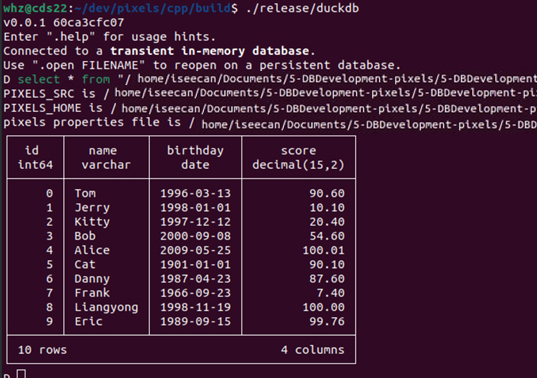
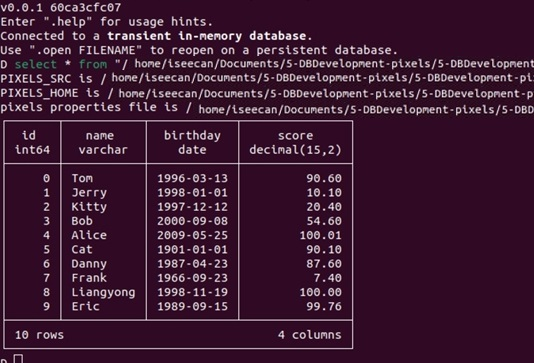
Update Report2

Changed region(s): [[0.0, 0.0, 1.0, 1.0]]

diff --git a/Report2.md b/Report2.md
@@ -189,7 +189,7 @@ void DateColumnWriter::writeCurPartTime(std::shared_ptr<ColumnVector> columnVect
 </div>
 
 <div style="text-align: center;">
-    <img src="./ReportImg/out2.png" alt="结果2" style="width: 600px; height: auto;" />
+    <img src="./ReportImg/out2.jpg" alt="结果2" style="width: 600px; height: auto;" />
 </div>
 
 **最后，感谢老师和助教这一学期的悉心教导！**
